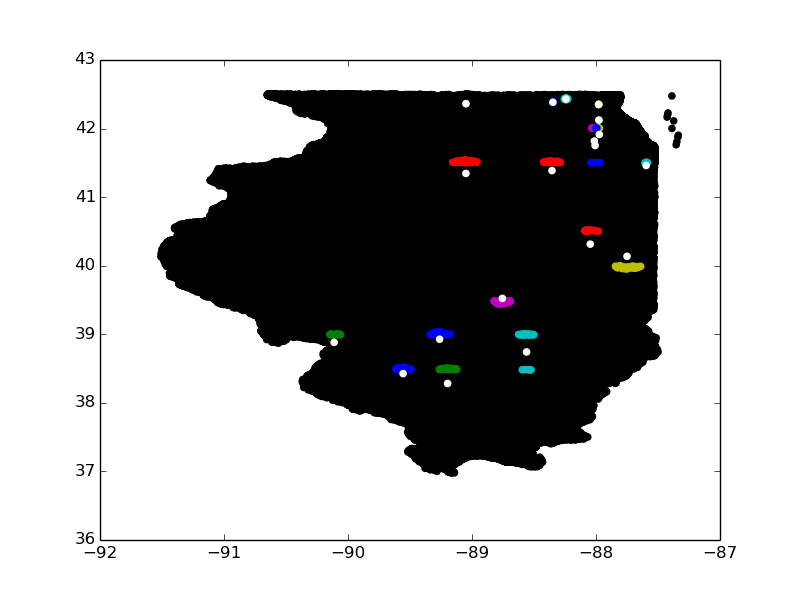
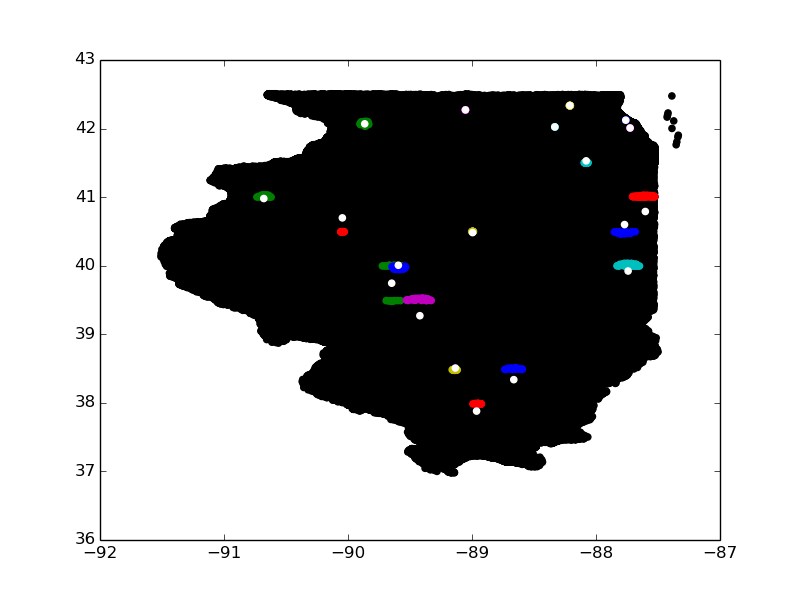
black bars

diff --git a/grid_search.py b/grid_search.py
@@ -31,11 +31,9 @@ centroid_l = [[5,+39.810985,-090.925895,6],
 '''
 filename= "IL.csv"
 number = 19
-global_epsilon = 500
+global_epsilon = 1000
 
 centroid_l = find_random_centroids(filename, number)
-Districts = dc.create_districts(centroid_l, 1)
-Grid, data, dim, lat, lon = build_grid(filename)
 
 def euclidean_norm(centroid, block):
 	distance = math.sqrt((centroid[1]-block[1])**2+(centroid[2]-block[2])**2)
@@ -43,8 +41,8 @@ def euclidean_norm(centroid, block):
 
 def neighborhood_to_search(centroid, tol):
 	i_0, j_0 = hash_map_index(dim, lat, lon, centroid)
-	x_size = (lon[1] - lon[0]) / dim[0]
-	y_size = (lat[1] - lat[0]) / dim[1]
+	#x_size = (lon[1] - lon[0]) / dim[0]
+	#y_size = (lat[1] - lat[0]) / dim[1]
 
 	#print("\n actual location", centroid[1], centroid[2])
 	#print("dim", dim)
@@ -57,29 +55,35 @@ def neighborhood_to_search(centroid, tol):
 	#print([max(i_0-tol, 0), min(i_0+tol, len(Grid)-1)], [max(j_0-tol, 0), min(j_0+tol, len(Grid[0])-1)])
 	return [max(i_0-tol, 0), min(i_0+tol, len(Grid)-1)], [max(j_0-tol, 0), min(j_0+tol, len(Grid[0])-1)]
 
-def searching_neighborhood(priority_district, tol):
+def searching_neighborhood(priority_district, tol, Grid):
 	x_range, y_range = neighborhood_to_search(priority_district.centroid, tol)
+	#print("x range", x_range)
+	#print("y range", y_range)
 	dist_list = []
 	for i in x_range:
  		for j in y_range:
  			for block in Grid[i][j]:
+ 				#print("ij", i, j)
  				dist = euclidean_norm(priority_district.centroid, block)
  				dist_list.append([dist, block[0], block[1], block[2], block[3], i, j])
 	return dist_list
 
 def searching_all(filename):
+	Grid, data, dim, lat, lon = build_grid(filename, number)
+	Districts = dc.create_districts(centroid_l, 1)
 	unassigned_blocks = data.shape[0]
-	print(unassigned_blocks)
+	#print(unassigned_blocks)
 	while unassigned_blocks != 0:
 		tol = 1
 		priority_district = dc.return_low_pop(Districts)
-		dist_list = searching_neighborhood(priority_district, tol)
+		dist_list = searching_neighborhood(priority_district, tol, Grid)
 		
-		while dist_list == 0:
+		while len(dist_list) == 0:
 			tol += 1
 			print("changed tolerance.")
 			dist_list = searching_neighborhood(priority_district, tol)
 
+		#print(len(dist_list))
 		heapq.heapify(dist_list)
 
 		add_block = dist_list[0]
@@ -97,7 +101,6 @@ def searching_all(filename):
 def graph(Districts):
 	plt.scatter(data[:, 2], data[:, 1], color='k')
 
-	
 	colors = itertools.cycle(["b", "g", "r", "c", "m", "y"])
 	for district in Districts:
 		#print("change district")

diff --git a/centroids.py b/centroids.py
@@ -5,7 +5,6 @@ def find_random_centroids(filename, number):
     with open(filename, 'r') as f:
         reader = csv.reader(f)
         random_blocks = random.sample(list(reader), number)
-        print(random_blocks)
         centroid_list = list(random_blocks)
         centroids = []
         for c in centroid_list:
@@ -14,9 +13,4 @@ def find_random_centroids(filename, number):
                 formatted_c.append(float(d))
             centroids.append(formatted_c)
 
-        #centroid_list = [float(i) for i in centroid_list]
     return centroids
-
-def format_centroids(centroid_list):
-	for item in centroid_list:
-		print(item[2][1:] + "," + item[1])

diff --git a/grid.py b/grid.py
@@ -37,15 +37,14 @@ def hash_map_index(dim, lat, lon, block):
 	#print("_i", _i)
 	#print("_j", _j)
 	
-	
 	j = (dim[0]-1) - _j
 	i = (dim[1]-1) - _i
 	#print("i", i)
 	#print("j", j)
 	return i, j
 	
-def build_grid(filename):
-	dim, lat, lon, data = create_grid(filename, 19)
+def build_grid(filename, number):
+	dim, lat, lon, data = create_grid(filename, number)
 
 	Master_Grid = []
 	for c in range(dim[1]):
